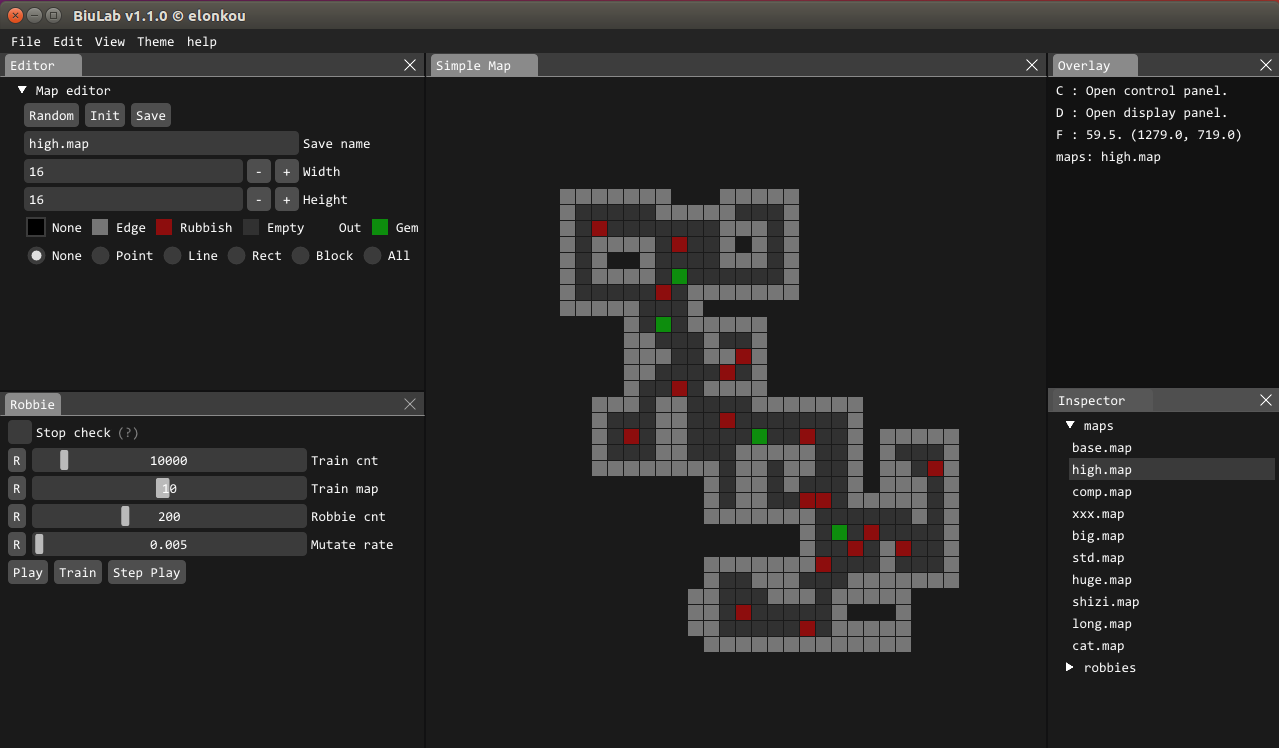
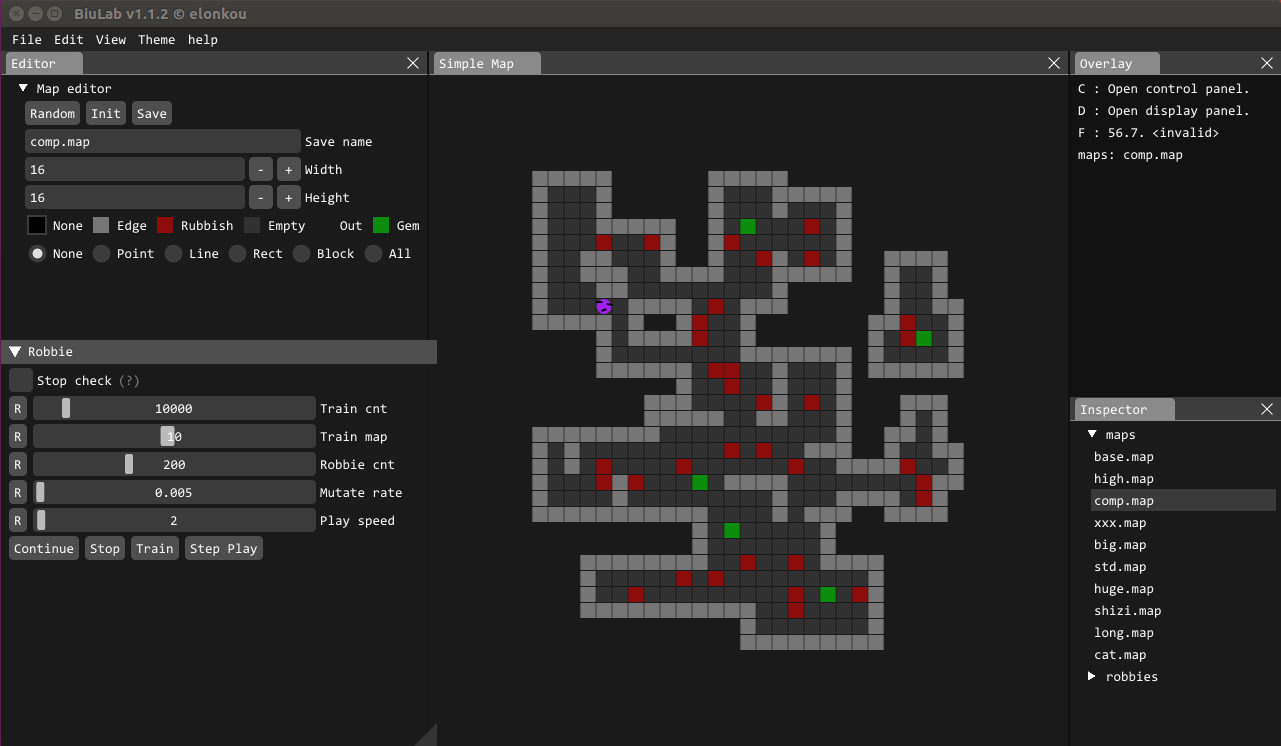
:alien:[v1.1.2] add map elem for display Robbie :).

diff --git a/modules/Robbie/RobbieController.cc b/modules/Robbie/RobbieController.cc
@@ -34,6 +34,7 @@ RobbieController::RobbieController()
     data->robbie_cnt       = ROBBIE_CNT;
     data->mutate_rate      = MUTATE_VAL * 1.0 / MUTATE_ALL;
     data->global_id        = 0;
+    data->speed            = 2;
     data->train_stop_check = false;
     data->max_histyory     = -1000.0;
     data->dis_map          = NULL;
@@ -129,7 +130,17 @@ void RobbieController::Print_str() {
 }
 
 void RobbieController::Play() {
-    cout << data->dis_rob->pos << endl;
+    // cout << data->dis_rob->pos << endl;
+    unordered_map<vec_2i, PathType> render_targets;
+    // for (size_t idx = 0; idx < 5 && idx < data->history.positions.size(); idx++) {
+    //     vec_2i pp = data->history.positions[data->history.positions.size() - idx - 1];
+    //     if (pp == data->dis_rob->pos) {
+    //     } else {
+    //         render_targets.insert({pp, PATH_HISTORY});
+    //     }
+    // }
+    render_targets.insert({data->dis_rob->pos, PATH_ACTOR});
+    data->dis_map->SetRenderTargets(render_targets);
     int          hash    = data->dis_map->GetHash(data->dis_rob->pos);
     RobbieAction pre_act = RobbieAction(data->dis_rob->genes[hash]);
     data->history.hashs.push_back(hash);
@@ -137,18 +148,19 @@ void RobbieController::Play() {
     data->history.actions.push_back(pre_act);
     data->history.results.push_back(data->dis_rob->NextStep(*(data->dis_map)));
     // map.CleanTarget();
-    data->history.hashs.resize(100);
-    data->history.positions.resize(100);
-    data->history.actions.resize(100);
-    data->history.results.resize(100);
+    data->history.hashs.resize(MIN(20, data->history.hashs.size()));
+    data->history.positions.resize(MIN(20, data->history.positions.size()));
+    data->history.actions.resize(MIN(20, data->history.actions.size()));
+    data->history.results.resize(MIN(20, data->history.results.size()));
 }
 
 void RobbieController::UpdateInFrame() {
     static int frame_rate = 0;
+    int        max        = 60 / data->speed;
     if (running) {
         if (!pause) {
             frame_rate++;
-            if (frame_rate > 60) {
+            if (frame_rate > max) {
                 frame_rate = 0;
                 Play();
             }

diff --git a/modules/SimpleMap/SimpleMapWindow.cc b/modules/SimpleMap/SimpleMapWindow.cc
@@ -43,10 +43,9 @@ void SimpleMapWindow::Show() {
         ImVec2        offset      = ImVec2((window_size.x - map_size.x) / 2 + start_pos.x, (window_size.y - map_size.y) / 2 + start_pos.y);
         for (int i = 0; i < simple_map->size.y; i++) {
             for (int j = 0; j < simple_map->size.x; j++) {
-                ImVec2 p0 = {offset.x + j * bsize, offset.y + i * bsize};
-                ImVec2 p1 = {offset.x + (j + 1) * bsize - padding, offset.y + (i + 1) * bsize - padding};
-                ImVec4 color;
-                color = simple_map->infos[int(simple_map->target[i][j])].color;
+                ImVec2 p0    = {offset.x + j * bsize, offset.y + i * bsize};
+                ImVec2 p1    = {offset.x + (j + 1) * bsize - padding, offset.y + (i + 1) * bsize - padding};
+                ImVec4 color = simple_map->infos[int(simple_map->target[i][j])].color;
                 // Hover& click event
                 if (ImGui::IsMouseHoveringRect(p0, p1)) {
                     color.w = color.w < 1.0 ? color.w + 0.1 : color.w - 0.1;
@@ -65,6 +64,14 @@ void SimpleMapWindow::Show() {
                     color.w = color.w < 1.0 ? color.w + 0.1 : color.w - 0.1;
                 }
                 drawList->AddRectFilled(p0, p1, ImGui::ColorConvertFloat4ToU32(color));
+                auto found = simple_map->render_target.find(vec_2i(j, i));
+                if (found != simple_map->render_target.end()) {
+                    ImVec4 cir_color = simple_map->info_target[int(found->second)].color;
+                    // ImVec2 center    = (p0 + p1) / 2;
+                    // float  radius    = p1.x - center.x - 2;
+                    // drawList->AddCircleFilled(center, radius, ImGui::ColorConvertFloat4ToU32(cir_color), 16);
+                    ImGui::DrawRobbie(drawList, p0, p1, cir_color);
+                }
             }
         }
         if (ImGui::IsMouseHoveringRect(start_pos, end_pos)) {

diff --git a/lib/imgui/imgui_biulab_widgets.cpp b/lib/imgui/imgui_biulab_widgets.cpp
@@ -161,3 +161,18 @@ bool ImGui::ThumbNail(ImTextureID user_texture_id, const ImVec2& size, std::stri
 
     return pressed;
 }
+
+void ImGui::DrawRobbie(ImDrawList* draw_list, ImVec2& p0, ImVec2& p1, ImVec4& color) {
+    ImVec2 center = (p0 + p1) / 2;
+    ImVec2 p2     = center + ImVec2(-9, -5);
+    ImVec2 p3     = center + ImVec2(-2, -5);
+    ImVec2 p4     = center + ImVec2(2, -3);
+    ImVec2 p5     = center + ImVec2(9, -2);
+    ImVec2 p6     = center + ImVec2(-3, 4);
+    ImVec2 p7     = center + ImVec2(2, 2);
+    float  radius = p1.x - center.x;
+    draw_list->AddCircleFilled(center, radius, ImGui::ColorConvertFloat4ToU32(color), 16);
+    draw_list->AddLine(p2, p3, ImGui::ColorConvertFloat4ToU32({0, 0, 0, 1}), 2);
+    draw_list->AddLine(p4, p5, ImGui::ColorConvertFloat4ToU32({0, 0, 0, 1}), 2);
+    draw_list->AddLine(p6, p7, ImGui::ColorConvertFloat4ToU32({0, 0, 0, 1}), 2);
+}

diff --git a/lib/frame/BiuLabTypes.cc b/lib/frame/BiuLabTypes.cc
@@ -7,17 +7,21 @@
 ================================================================*/
 
 #include "BiuLabTypes.hh"
-#include <iostream>
 
-using namespace std;
+bool operator==(const vec_2i& first, const vec_2i& second) {
+    return (first.x == second.x) && (first.y == second.y);
+}
+
 vec_2i::vec_2i() {
     x = 0;
     y = 0;
 }
+
 vec_2i::vec_2i(int a, int b)
     : x(a)
     , y(b) {}
-vec_2i vec_2i::operator+(vec_2i other) {
+
+vec_2i vec_2i::operator+(const vec_2i other) {
     vec_2i v;
     v.x = x + other.x;
     v.y = y + other.y;

diff --git a/modules/Robbie/RobbieControlWindow.cc b/modules/Robbie/RobbieControlWindow.cc
@@ -35,6 +35,11 @@ void RobbieControlWindow::Show() {
             }
             ImGui::SameLine();
             ImGui::SliderFloat("Mutate rate", &robbie_controll->data->mutate_rate, 0.0, 1.0, "%.3f%");
+            if (ImGui::Button("R##4")) {
+                robbie_controll->data->speed = 2;
+            }
+            ImGui::SameLine();
+            ImGui::SliderInt("Play speed", &robbie_controll->data->speed, 1, 120, "%d");
         }
         {
             // controller comand

diff --git a/lib/imgui/imgui_biulab_widgets.h b/lib/imgui/imgui_biulab_widgets.h
@@ -22,6 +22,8 @@ IMGUI_API bool ColorRadioButton(const char* label, int* v, int v_button, ImVec4 
 
 IMGUI_API bool ThumbNail(ImTextureID user_texture_id, const ImVec2& size, std::string label, const ImVec2ih& uv, const size_t& index);
 
+IMGUI_API void DrawRobbie(ImDrawList* draw_list, ImVec2& p0, ImVec2& p1, ImVec4& color);
+
 } // namespace ImGui
 
 #endif

diff --git a/README.md b/README.md
@@ -11,7 +11,7 @@ The BiuLab was designed based on plugin architecture, you can create your own mo
 ```bash
 # 2.1 ubuntu install (for ubuntu 18.04)
 sudo apt-get install libglfw3 libglfw3-dev libglfw3-doc
-sudo apt-get  install libglew-dev
+sudo apt-get install libglew-dev
 
 # 2.2 ubuntu install (for ubuntu 16.04, glfw3.2+)
 # please install libglfw3/libglfw3-dev/libglfw3-doc.

diff --git a/changelog.md b/changelog.md
@@ -26,6 +26,7 @@
 - [ ] controller
 
 # CHANGELOG
+- [x] [v1.1.2] Core     2020.02.18: add targte element for display, like Robbie:).  
 - [x] [v1.1.1] Core     2020.02.16: add program select window.  
 - [x] [v1.1.0] Module   2020.02.10: add robbie module succeed.
 - [x] [v1.0] Core   2020.02.10: succeed in biulab v1.0.
